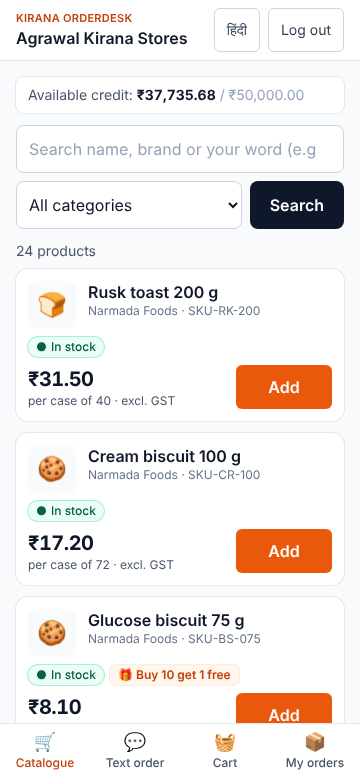
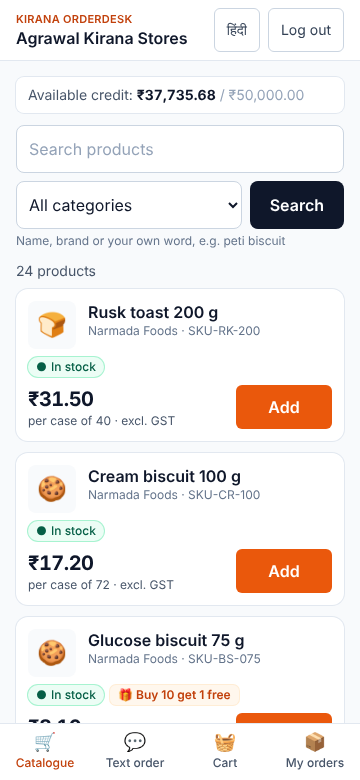
Catalogue search: short placeholder plus visible hint so nothing clips at 360px
The long example placeholder was cut off on narrow phones (a placeholder
cannot wrap). The input now says just 'Search products' and the example
moves to a hint line under the form, linked with aria-describedby, in
English and Hindi. Re-shot the 360px catalogue (scrollWidth stays 360).

diff --git a/lib/i18n.ts b/lib/i18n.ts
@@ -65,7 +65,8 @@ const en = {
   },
   catalogue: {
     title: "Catalogue",
-    searchPlaceholder: "Search name, brand or your word (e.g. peti biscuit)",
+    searchPlaceholder: "Search products",
+    searchHint: "Name, brand or your own word, e.g. peti biscuit",
     searchLabel: "Search products",
     search: "Search",
     category: "Category",
@@ -340,7 +341,8 @@ const hi: Messages = {
   },
   catalogue: {
     title: "सामान",
-    searchPlaceholder: "नाम, ब्रांड या अपना शब्द लिखें (जैसे peti biscuit)",
+    searchPlaceholder: "सामान खोजें",
+    searchHint: "नाम, ब्रांड या अपना शब्द, जैसे peti biscuit",
     searchLabel: "सामान खोजें",
     search: "खोजें",
     category: "श्रेणी",

diff --git a/app/retailer/catalogue/page.tsx b/app/retailer/catalogue/page.tsx
@@ -90,7 +90,8 @@ export default async function CataloguePage({
           type="search"
           defaultValue={q}
           placeholder={m.catalogue.searchPlaceholder}
-          className="field sm:flex-1"
+          aria-describedby="q-hint"
+          className="field min-w-0 sm:flex-1"
         />
         <div className="flex gap-2">
           <label htmlFor="cat" className="sr-only">
@@ -114,6 +115,9 @@ export default async function CataloguePage({
           </button>
         </div>
       </form>
+      <p id="q-hint" className="mt-1 text-xs text-slate-500">
+        {m.catalogue.searchHint}
+      </p>
 
       <div className="mt-3 flex items-center justify-between text-sm text-slate-600">
         <span>{plural(skus.length, m.catalogue.resultsOne, m.catalogue.resultsMany)}</span>
